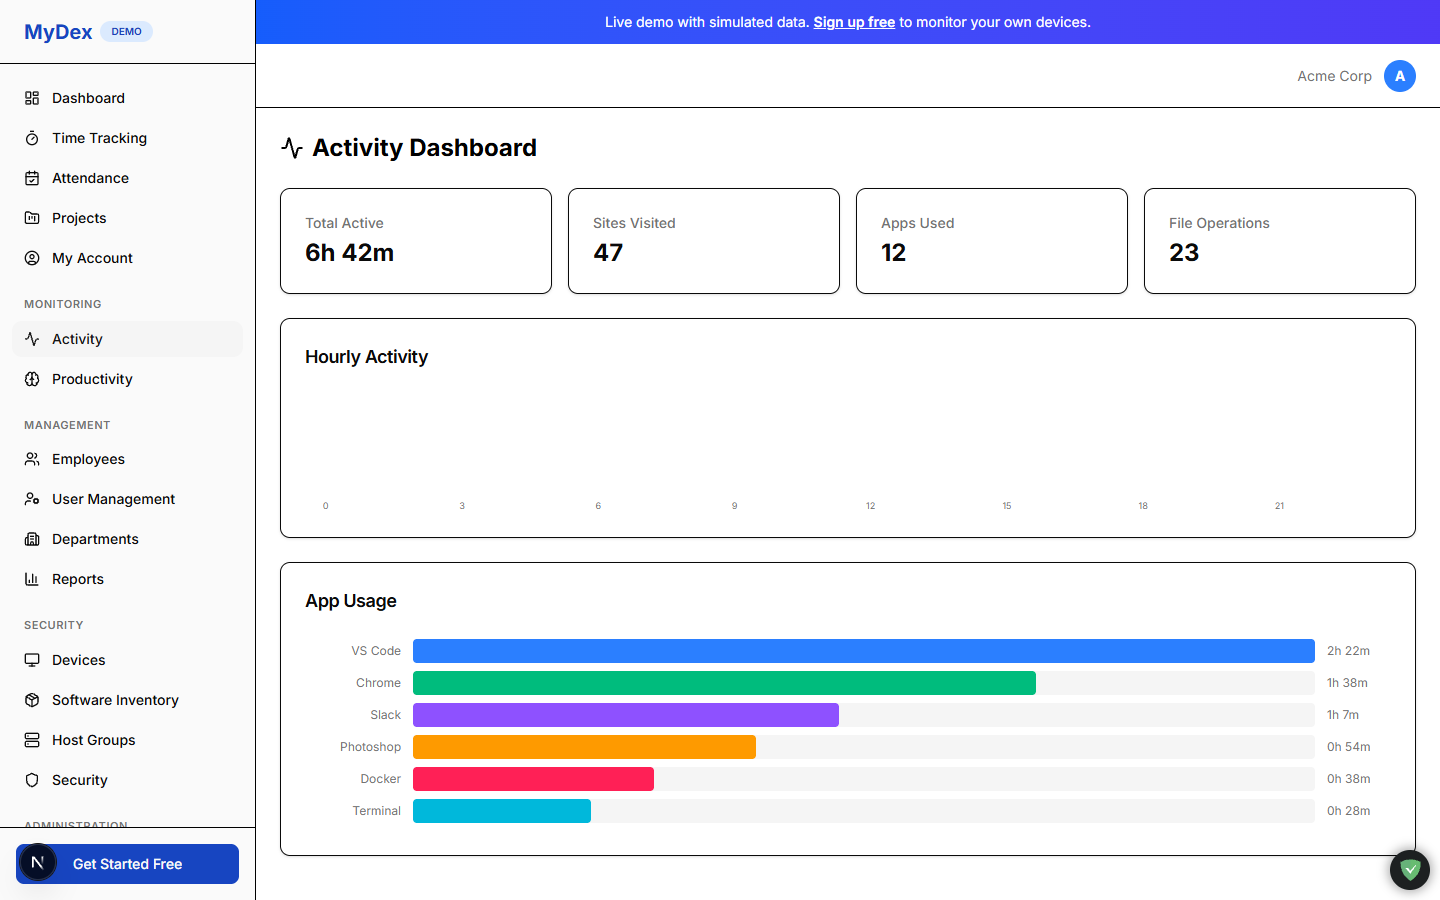
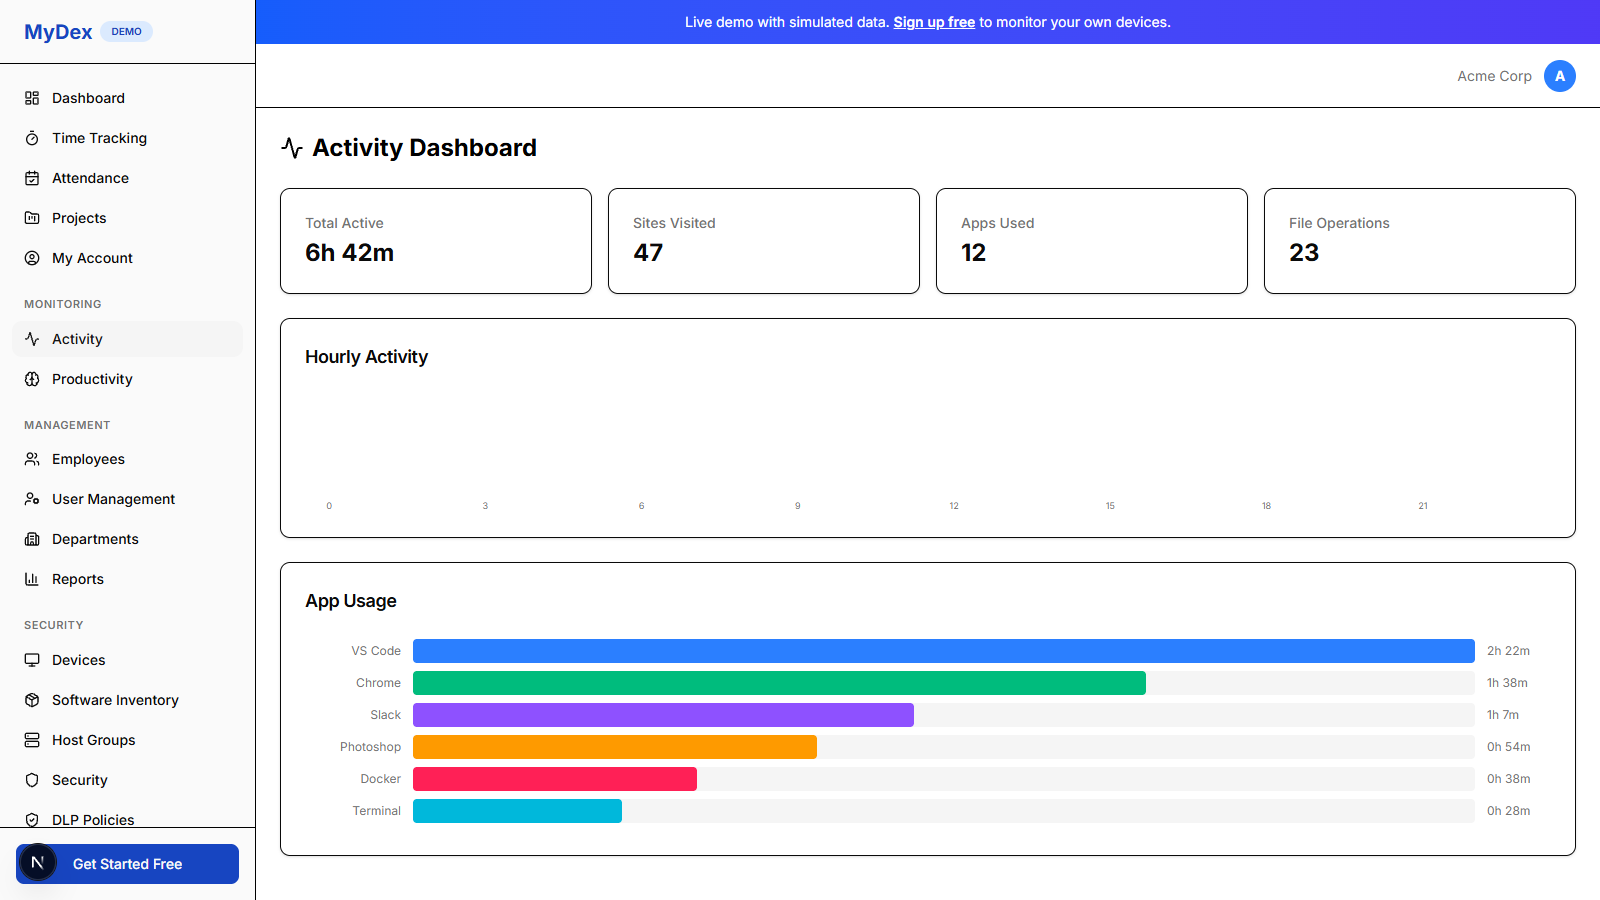
Update all screenshots, add new sections to README, fix React hooks error in demo
- Recapture all 24 screenshots from demo page using Puppeteer
- Add 4 new screenshots: DLP Policies, SOC 2 Compliance, IT Support (user), Kanban Board
- Add DLP Policies, SOC 2 Compliance, Kanban Board, and IT Support self-service sections to README
- Split IT Support README section into Employee Self-Service and IT Admin Portal
- Fix React hooks violation: move useState calls from inside IIFE to top-level component

diff --git a/src/app/demo/page.tsx b/src/app/demo/page.tsx
@@ -642,6 +642,8 @@ export default function DemoPage() {
   const [newReasonLabel, setNewReasonLabel] = useState("");
   const [supportTab, setSupportTab] = useState<"mydevice" | "selfservice" | "submit" | "tickets">("mydevice");
   const [viewingBoard, setViewingBoard] = useState<string | null>(null);
+  const [expandedTemplate, setExpandedTemplate] = useState<string | null>(null);
+  const [expandedPolicy, setExpandedPolicy] = useState<string | null>(null);
 
   const onlineCount = mockDevices.filter((d) => d.status === "ONLINE").length;
   const totalCves = mockDevices.reduce((s, d) => s + d.openCves, 0);
@@ -1942,8 +1944,7 @@ export default function DemoPage() {
               { id: "dlp2", name: "API Key Leak Prevention", status: "Active", desc: "Detects exposed API keys, tokens, and private keys in file transfers", created: "2026-03-01", rules: "Patterns: AWS keys (AKIA...), GitHub tokens (ghp_...), OpenAI keys (sk-...)\nChannels: Git push, File sharing, Chat messages\nAction: Block transfer, Notify developer, Auto-rotate if possible" },
             ];
 
-            const [expandedTemplate, setExpandedTemplate] = useState<string | null>(null);
-            const [expandedPolicy, setExpandedPolicy] = useState<string | null>(null);
+            // expandedTemplate and expandedPolicy state moved to top level
 
             return (
             <div className="space-y-6">

diff --git a/README.md b/README.md
@@ -76,7 +76,13 @@ Built-in clock widget for employees to clock in/out. Daily and weekly timesheet 
 
 ![Projects](screenshots/projects.png)
 
-Create projects with descriptions, deadlines, and team assignments. Kanban task board with drag-and-drop between columns (To Do, In Progress, Review, Done). Milestone tracking with progress indicators. List and board view alternatives.
+Create projects with descriptions, deadlines, and team assignments. Project cards show progress bars, team avatars, and status badges. Click "View Board" to open the full Kanban task board.
+
+#### Kanban Board
+
+![Kanban Board](screenshots/kanban-board.png)
+
+Full Kanban task board with 5 columns (Backlog, To Do, In Progress, In Review, Done). Task cards display priority badges, category labels, due dates, and assignee avatars. Breadcrumb navigation between project list and board views.
 
 ### Security Center
 
@@ -89,6 +95,18 @@ Centralized security dashboard with:
 - **Threat Alerts** — Severity-classified alerts (High/Medium/Low) with device attribution
 - **Device Security Posture** — Antivirus, firewall, update compliance per device
 - **Audit Log** — Complete audit trail of all administrative actions
+
+### DLP Policies
+
+![DLP Policies](screenshots/dlp.png)
+
+Data Loss Prevention policy management with breadcrumbs, a step-by-step explainer, and 8 pre-built policy templates (SSN, credit cards, API keys, email exfiltration, HIPAA, source code, financial documents, USB media). Each template includes expandable rule previews with regex patterns, keyword lists, and action configurations. Create custom policies or start from a template.
+
+### SOC 2 Compliance
+
+![SOC 2 Compliance](screenshots/compliance.png)
+
+SOC 2 compliance health dashboard with overall score, control status breakdown, and compliance trend charts. Trust Service Criteria mapping across all 5 categories (Security, Availability, Processing Integrity, Confidentiality, Privacy). Per-device compliance checks with expandable detail views and automated remediation suggestions.
 
 ### Software Inventory
 
@@ -164,18 +182,29 @@ Employee self-service portal for profile management, password changes, MFA setup
 
 Secure login with email/password, GitHub OAuth, and Microsoft SSO. Protected by rate limiting, MFA enforcement, and full audit logging.
 
-### IT Support & Remediation
+### IT Support (Employee Self-Service)
 
-![IT Support](screenshots/it-support.png)
+![IT Support](screenshots/support.png)
 
-Full IT support console for resolving digital friction remotely and at scale. Includes:
-- **Advanced Capabilities** — Offline remediation, compliance drift monitoring, zero-day vulnerability patching, resource reclamation, ransomware rollback, and sustainability/carbon reporting
+User-facing IT Support portal accessible to all employees. Auto-detects the logged-in user's device and provides:
+- **My Device** — Device overview with CPU, RAM, uptime, and health status cards (antivirus, firewall, updates, stability)
+- **Self-Service Fix** — 21 pre-approved remediations across 6 categories (performance, network, display, apps, security, peripherals) with app picker for stuck application resets
+- **Submit Ticket** — Auto-detected device, stock issue reasons, app selector for app-related issues, and network auto-capture
+- **My Tickets** — Track submitted ticket status
+- **Remediation History** — Personal log of self-service fixes run on the user's device
+
+### IT Admin Portal
+
+![IT Admin Portal](screenshots/it-support.png)
+
+Full IT support admin console for resolving digital friction remotely and at scale. Includes:
+- **Ticket Queue** — Manage and assign support tickets with priority and status tracking
 - **Cross-Platform Remediations** — Process management, disk cleanup, network reset, service restart, NTP sync, and reboot orchestration
 - **Windows Remediations (PowerShell)** — Print spooler clear, SFC/DISM repair, Group Policy refresh, Explorer restart, Windows Update reset, WMI repair, temp file cleanup
 - **macOS Remediations (Zsh)** — TCC permission reset, Spotlight re-index, SystemUIServer restart, DNS flush, FileVault verification, Dock/Finder restart, LaunchDaemon management
 - **Security & Compliance** — Certificate injection, agent health recovery, local admin removal, unauthorized app removal
+- **Configuration** — Manage stock ticket reasons and remediation group settings
 - **Live Remediation Queue** — Real-time status tracking with auto-trigger and manual execution modes
-- **Remediation History** — Full audit trail of every action taken across the fleet
 
 ### Licensing & Pricing
 
